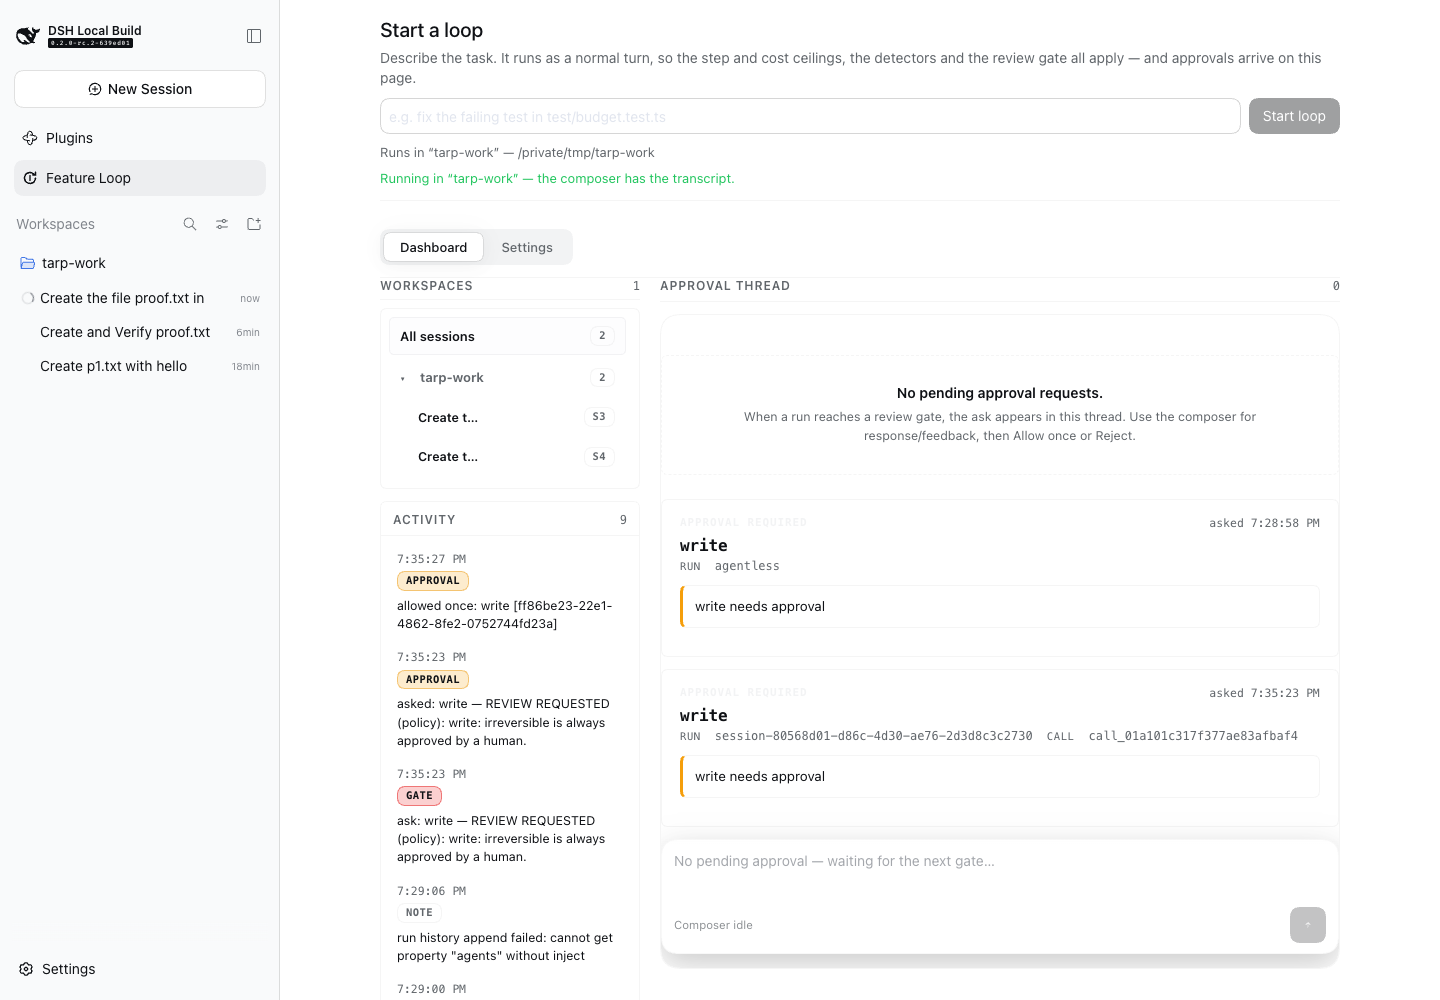
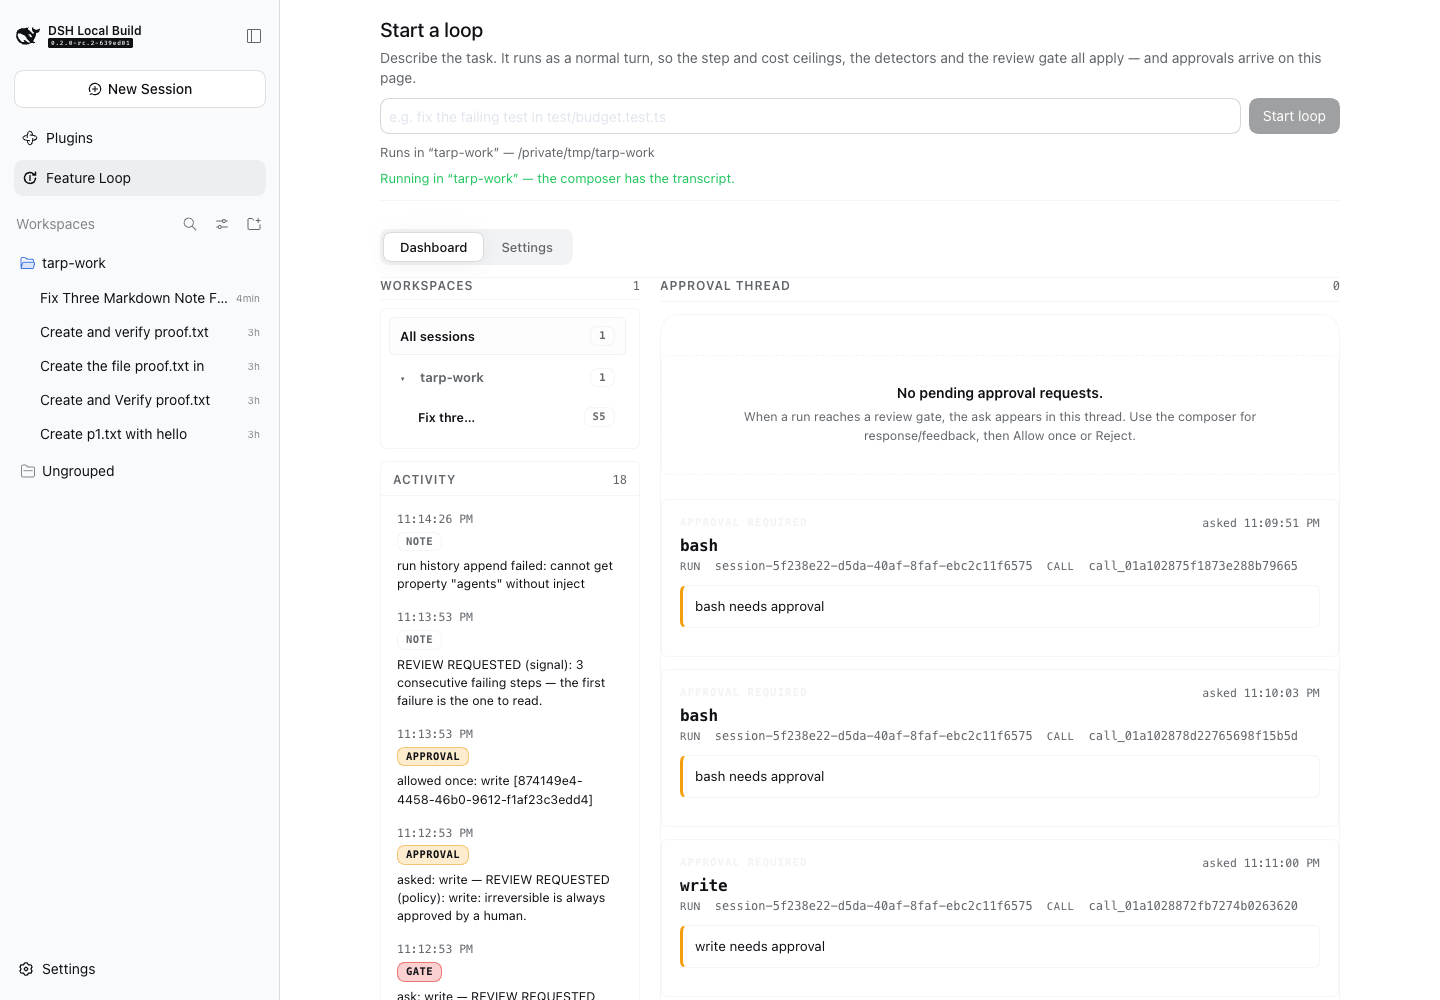
Measure usability on a run that needs a human more than once
`test/e2e-in-ui.mjs` drove the real page against a task that creates ONE
file, so every claim it could make was about the cheapest possible run, and it
reported no numbers at all.

The default task is now a three-file fixing task. The script settles EVERY ask
in turn — each matched by its own `askedAt`, each waited for to leave the
screen before looking for the next — and prints the wait for each. Measured,
real browser, real model, profile generated from this branch:

  e2e-in-ui (allow):  5 × Allow once → 3 file(s), waits 66, 34, 30, 47, 45ms
  e2e-in-ui (reject): 2 × Reject → no file,     waits 50, 48ms

Two things fall out that no previous run could show:

  * the approval page is not the slow part — every card is on screen in tens of
    milliseconds; the felt latency is the 12–57s model steps between them, so
    the work belongs in the loop, not in the approval UI;
  * the gate asks more than it needs to — five asks for three files, two of them
    `bash`, because an unknown tool defaults to irreversible. Safe, but it is
    noise a human learns to click through, which is the property the gate
    exists to have. The actuator table is the next thing to look at.

Also fixed: the cleanup `finally` threw ERR_INVALID_ARG_TYPE when a run failed
before the page named its target, replacing the real failure with
`join(undefined, …)`.

diff --git a/docs/KNOWN-ISSUES.md b/docs/KNOWN-ISSUES.md
@@ -51,6 +51,7 @@ rather than a list of letters:
 | 1bi | The README's first command failed on a fresh clone |
 | 1bj | The check that guards §1t could not see a third of the file |
 | 1bk | `byRoute: {}` beside a real `costUSD` taught the optimizer every route was free |
+| 1bl | The usability check had only ever asked one question |
 
 
 ### 1a. Nothing in this repo ran on the model it was supposed to run on
@@ -499,6 +500,49 @@ one-line change and watched it go red).
 **The pattern across all three:** a missing value is written down as a zero, and
 the zero is accepted because nothing reads it *at the moment it is written*. It
 is read later, by something that trusts it.
+
+### 1bl. The usability check had only ever asked one question
+
+**Observed:** `test/e2e-in-ui.mjs` drove the real page against a task that
+creates ONE file. One ask, one click, one assertion. Every number it could
+report — and it reported none — was therefore about the cheapest possible run.
+
+**Why that matters:** "a human can use this" is not a property of a one-ask
+run. It is a property of a run that needs a human SEVERAL times, where the
+costs show up: how long each card takes to appear after the model calls the
+tool, whether the card says WHICH call it is about, and whether the NEXT ask
+arrives at all once this one is settled. The script could not answer any of
+those — it clicked one card and asserted one file.
+
+**Fix:** the default task is now a three-file fixing task, the script settles
+EVERY ask in turn (matching each by its own `askedAt`, waiting for it to leave
+the screen before looking for the next), and it prints the wait for each.
+
+**Measured, real browser, real model, against a profile generated from this
+branch — the numbers this had never produced:**
+
+```
+e2e-in-ui (allow): 5 × Allow once → 3 file(s) written, waits 66, 34, 30, 47, 45ms
+e2e-in-ui (reject): 2 × Reject → no file written, waits 50, 48ms
+```
+
+Two things fall out of that which no previous run could show:
+
+- **The page is not the slow part.** Every card was on screen in tens of
+  milliseconds. The gaps the human feels are the 12–57 SECOND model steps
+  between them, so latency work belongs in the loop, not in the approval UI.
+- **The gate asks more than it needs to.** Five asks for three files: two were
+  `bash` (mkdir / ls) before any write. Under the generated profile
+  `resolveReversibility` defaults an unknown tool to `irreversible`, so every
+  shell call is gated too. That is SAFE and it is also noise — a human who
+  clicks through `bash` on autopilot has stopped reading the cards, which is
+  the property the gate exists to have. The next thing to look at is the
+  actuator table, not the approval flow.
+
+Also fixed while measuring: the `finally` block that cleans up the proof threw
+`ERR_INVALID_ARG_TYPE` when a run failed BEFORE the page had named its target,
+which replaced the real failure with a `join(undefined, …)` — the one failure
+mode you must never hide.
 
 ### 1bj. The check that guards §1t could not see a third of the file
 
